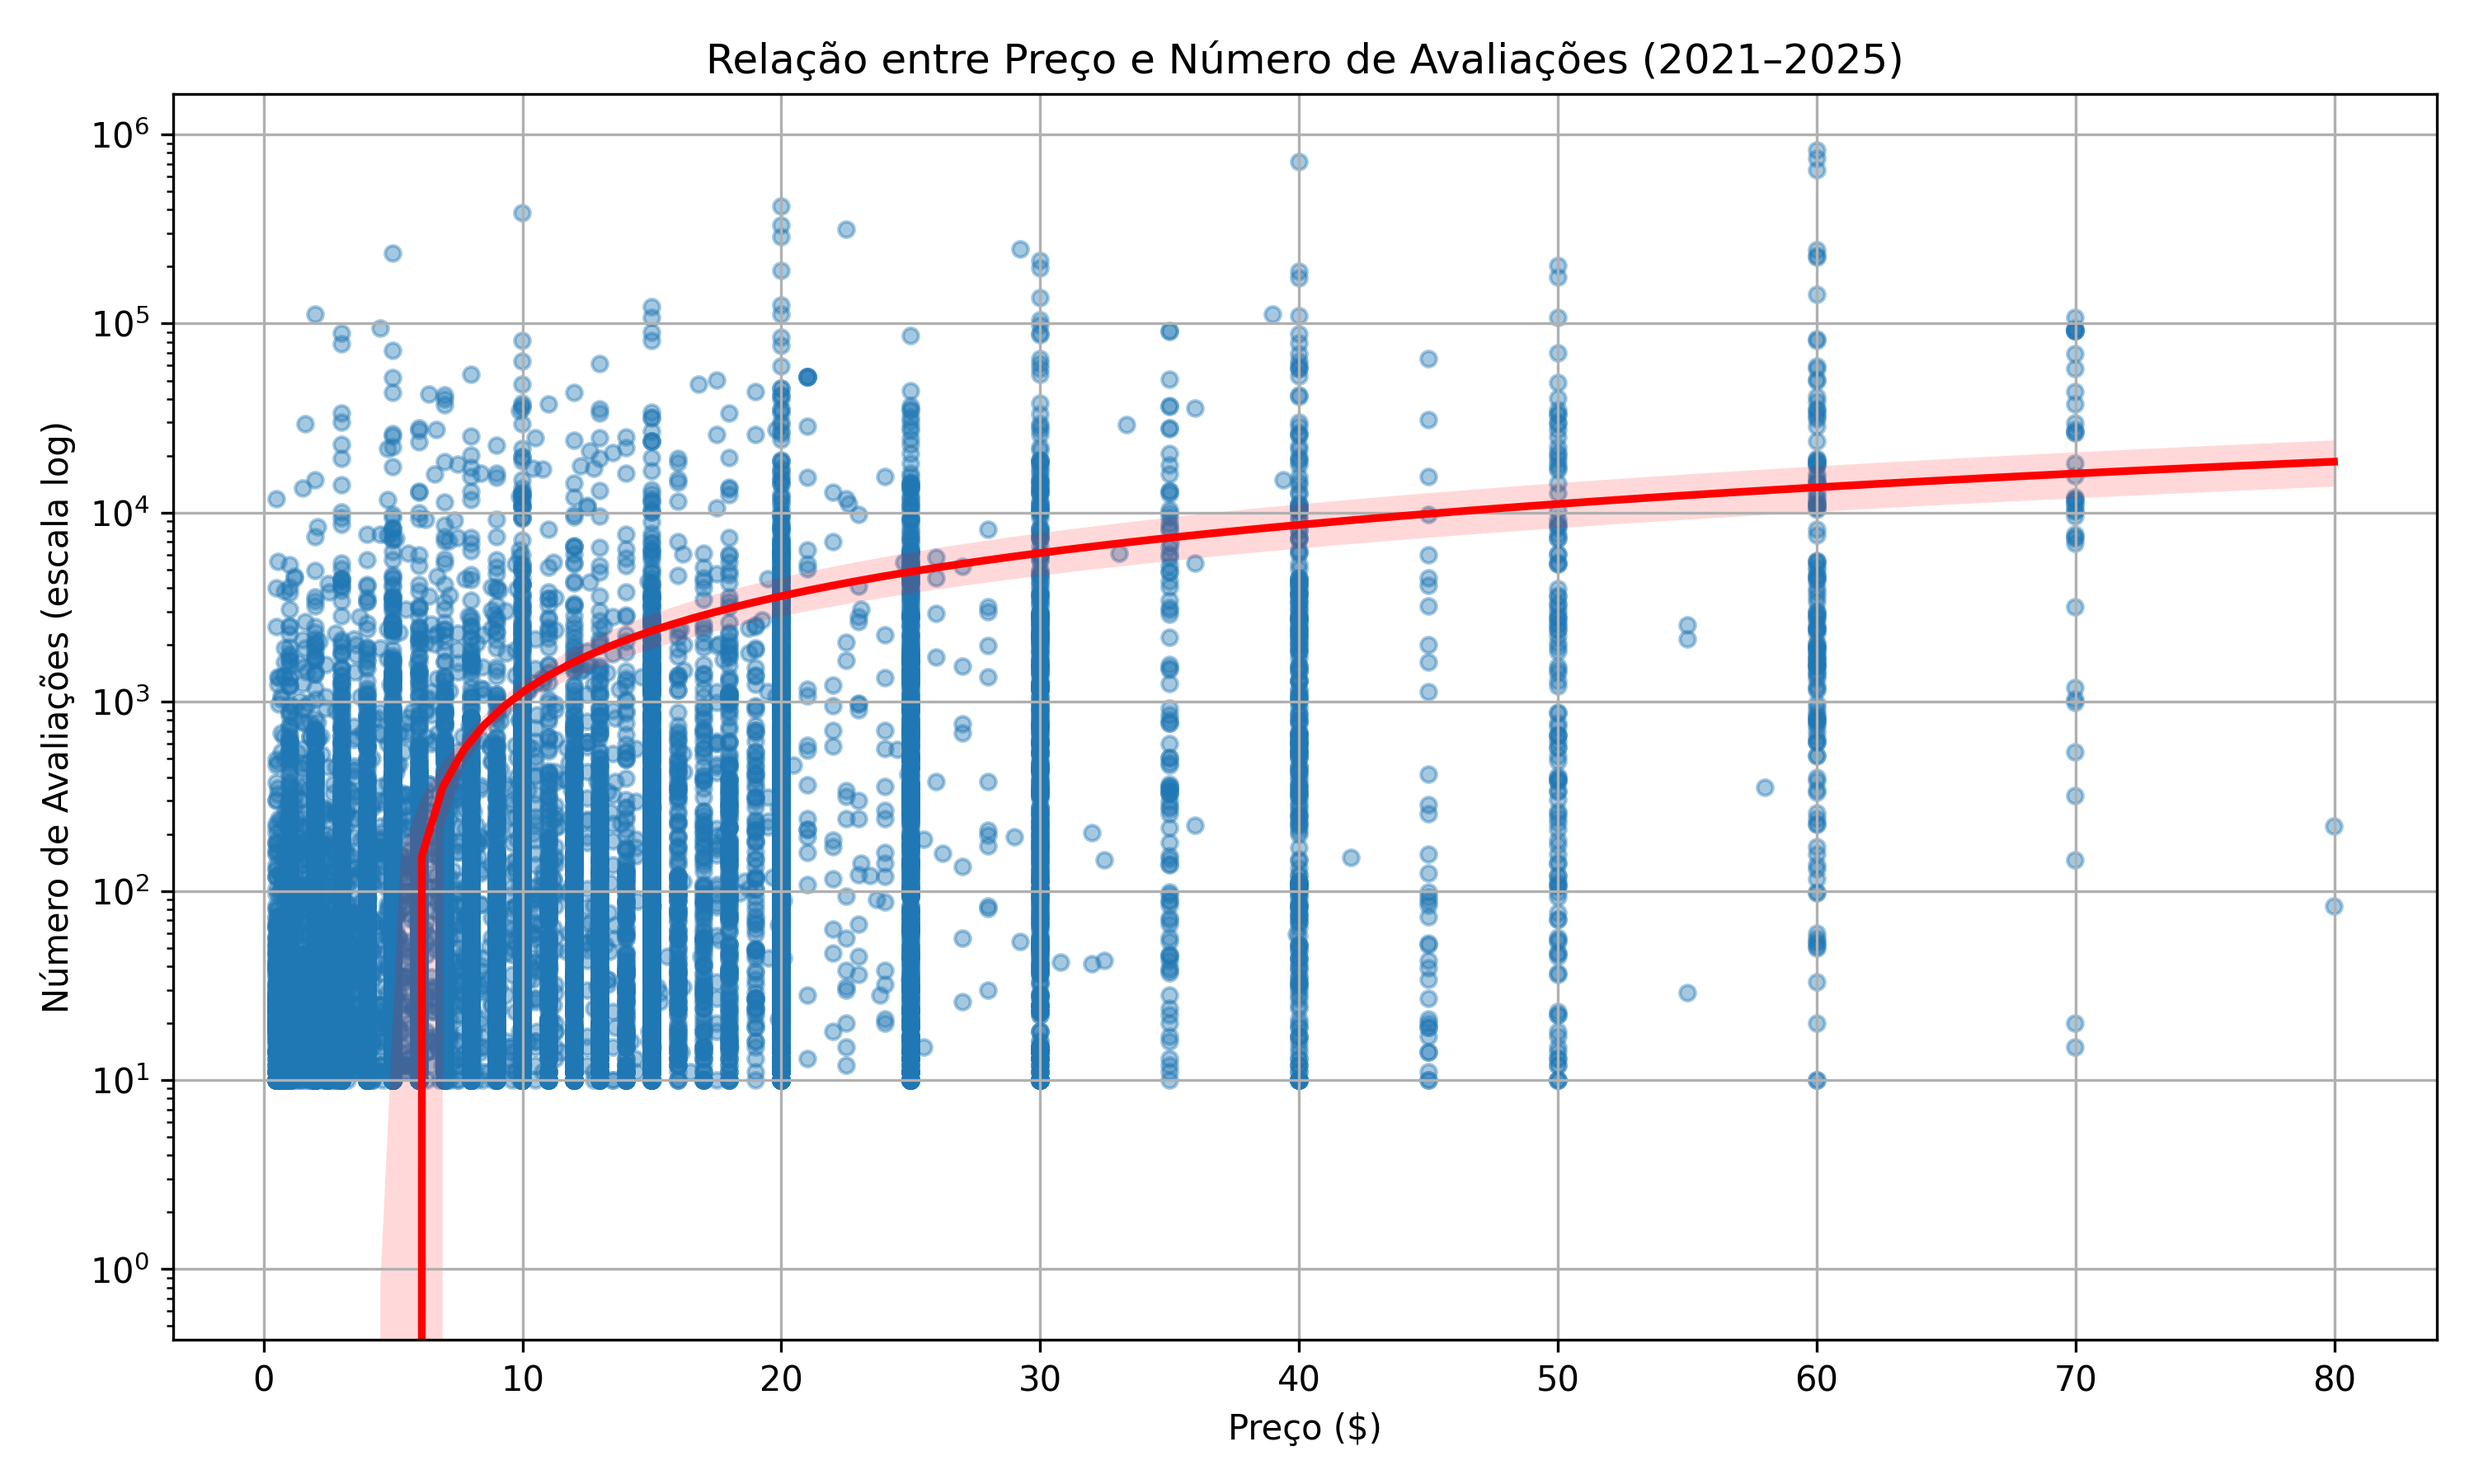
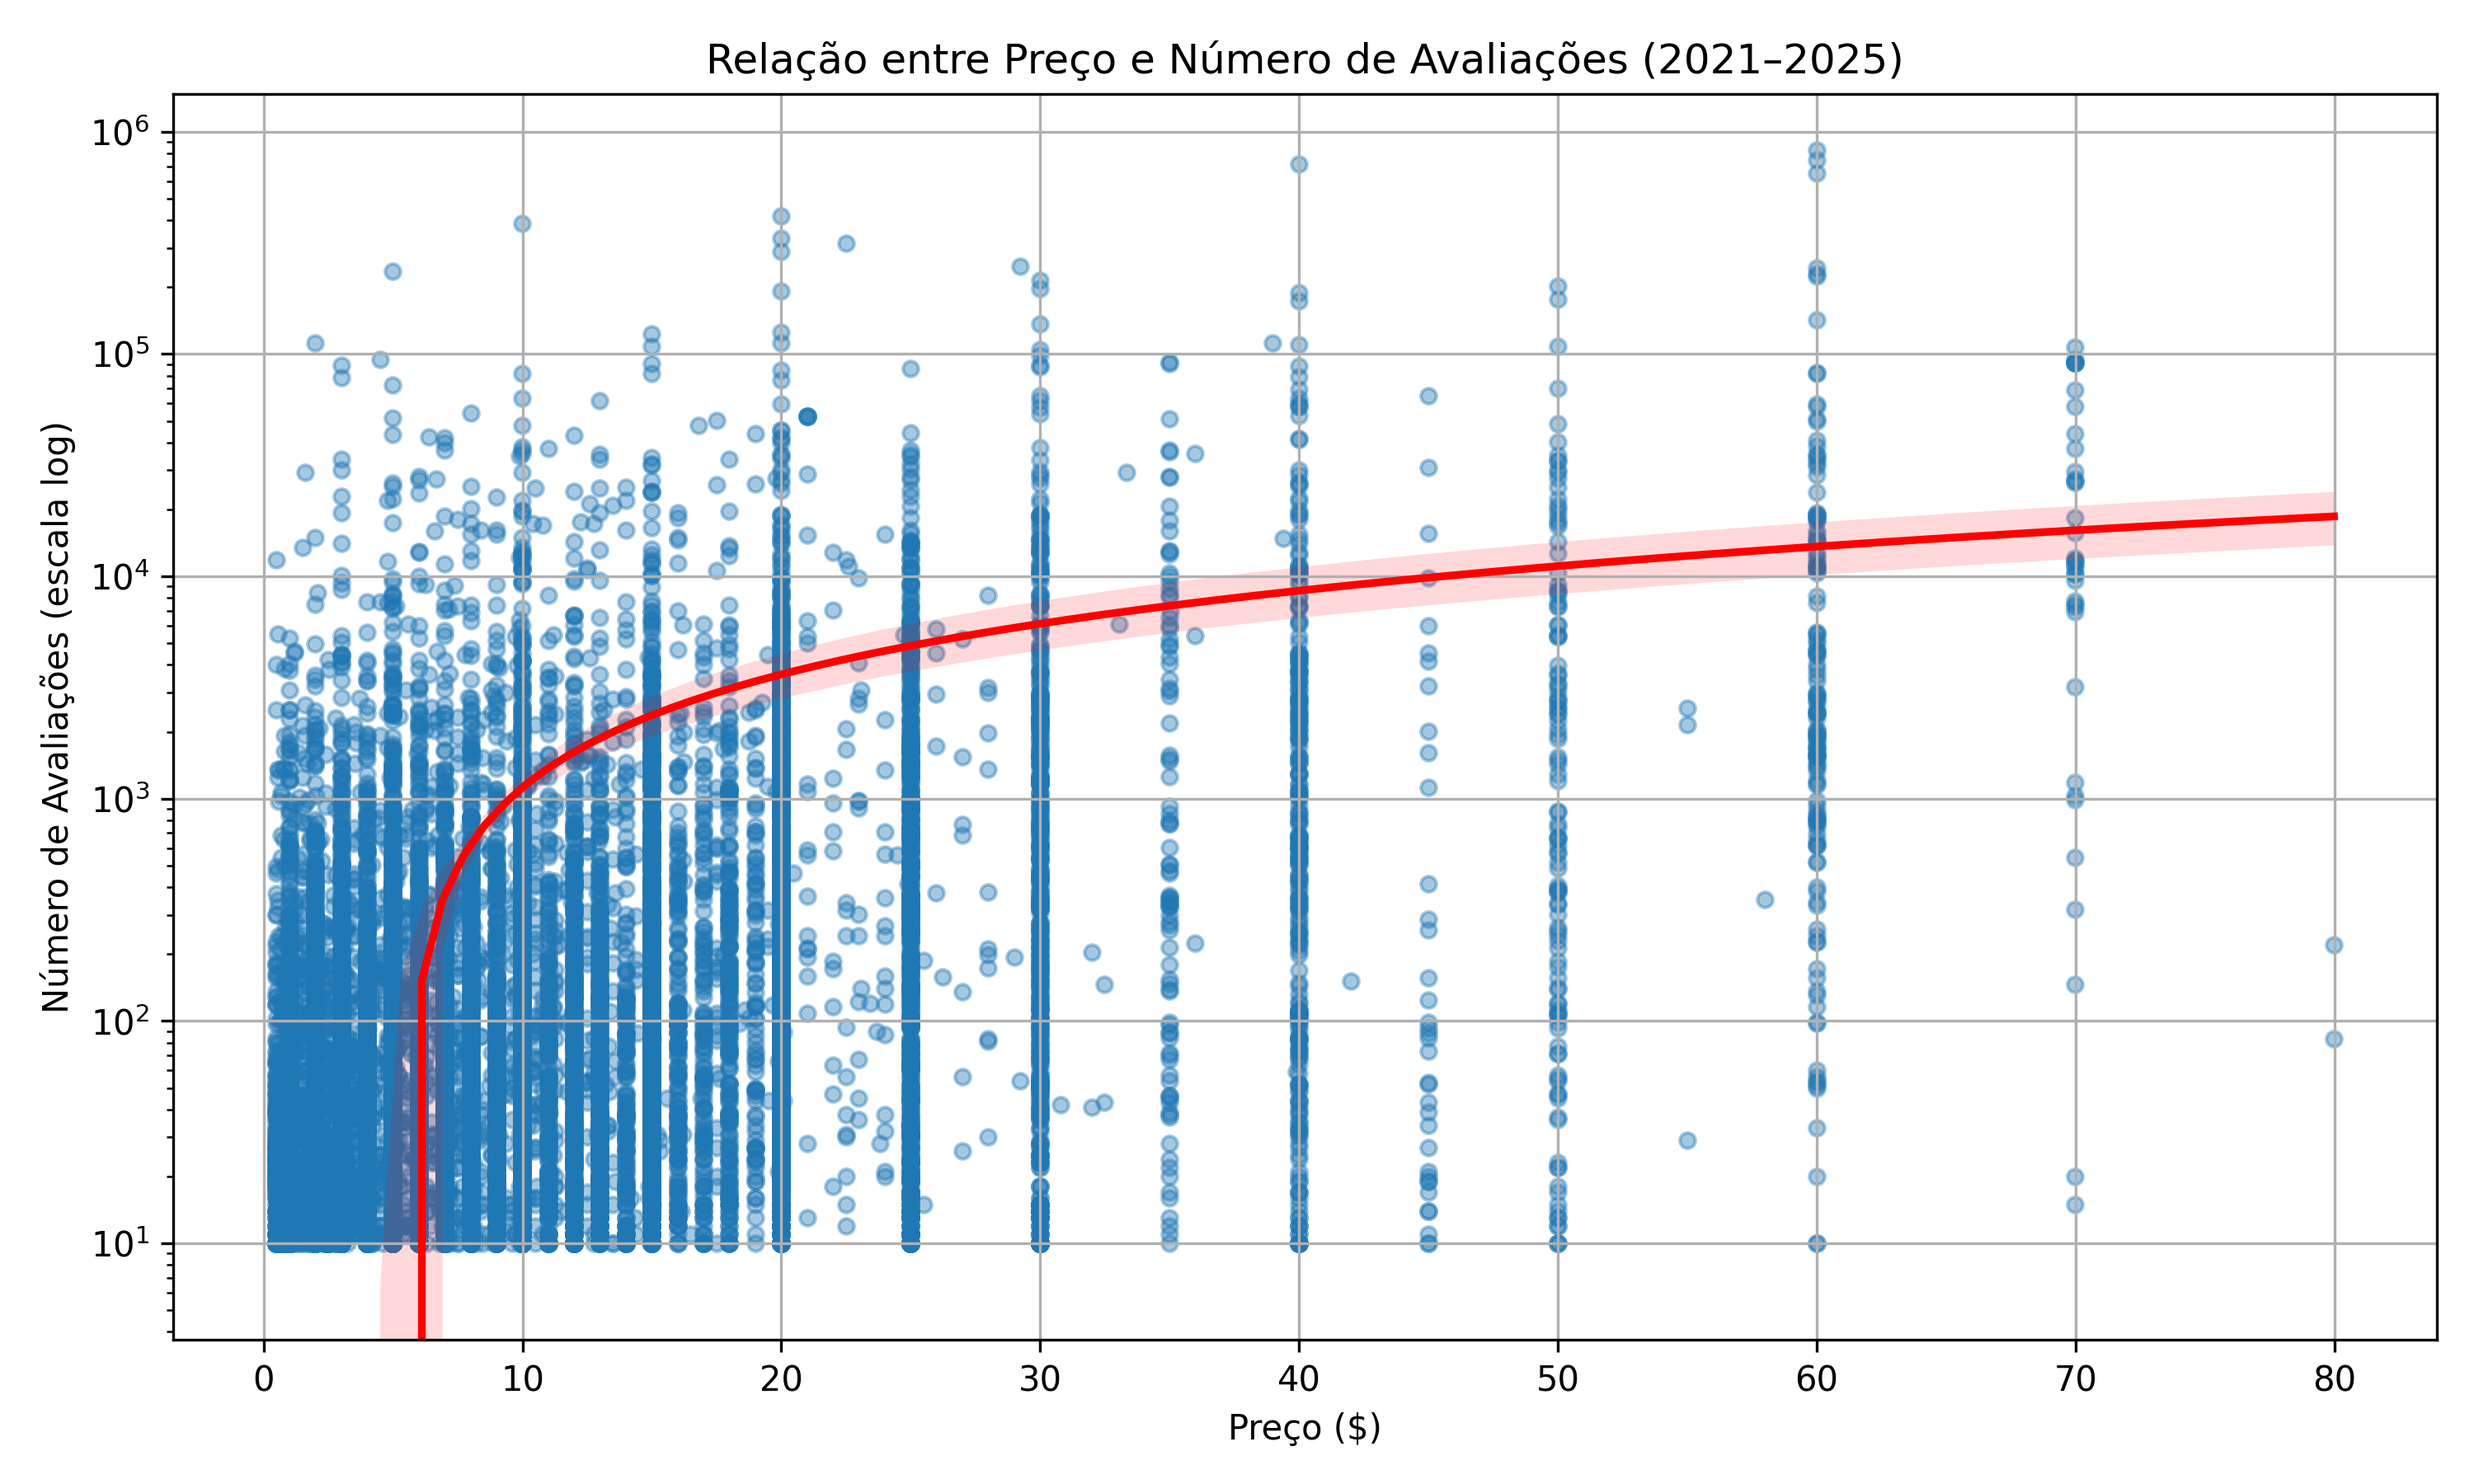
Fix: Correção dos gráficos

diff --git a/app.py b/app.py
@@ -3,51 +3,41 @@ import pandas as pd
 import matplotlib.pyplot as plt
 import seaborn as sns
 import numpy as np
-from scipy.stats import pearsonr
 import os
+from scipy.stats import pearsonr
 
-# Configurações iniciais da página
 st.set_page_config(page_title="Steam Games Analysis", layout="wide")
-
-# Título principal
 st.title("🎮 Steam Games Analysis (2021-2025)")
 st.markdown("---")
 
-# Carregar os dados
 @st.cache_data
 def load_data():
     parquet_path = 'dataset/games_march2025_clean.parquet'
-
     if not os.path.exists(parquet_path):
         st.error(f"Arquivo {parquet_path} não encontrado no repositório.")
         st.stop()
-
     df = pd.read_parquet(parquet_path)
     df['release_date'] = pd.to_datetime(df['release_date'], errors='coerce')
     df['year'] = df['release_date'].dt.year
     df['month'] = df['release_date'].dt.month
-    df['semester'] = df['year'].astype(str) + ' S' + df['release_date'].dt.month.apply(lambda x: '1' if x <= 6 else '2')
+    df['semester'] = df['release_date'].dt.year.astype(str) + ' S' + df['release_date'].dt.month.apply(lambda x: '1' if x <= 6 else '2')
     return df
 
 df = load_data()
 
 # Menu lateral
-menu = st.sidebar.selectbox(
-    "Escolha a Análise",
-    [
-        "Top 10 Jogos Mais Avaliados",
-        "Distribuição dos Preços",
-        "Top 10 Gêneros",
-        "Evolução dos Lançamentos",
-        "Novos Questionamentos"
-    ]
-)
+menu = st.sidebar.selectbox("Escolha a Análise", [
+    "Top 10 Jogos Mais Avaliados",
+    "Distribuição dos Preços",
+    "Top 10 Gêneros",
+    "Evolução dos Lançamentos",
+    "Novos Questionamentos"
+])
 
 # 1. Top 10 Jogos Mais Avaliados
 if menu == "Top 10 Jogos Mais Avaliados":
     st.header("📊 Top 10 Jogos Mais Avaliados")
     top10 = df.sort_values(by='num_reviews_total', ascending=False).head(10)
-
     fig, ax = plt.subplots(figsize=(10,6))
     ax.barh(top10['name'], top10['num_reviews_total'])
     ax.invert_yaxis()
@@ -59,7 +49,6 @@ if menu == "Top 10 Jogos Mais Avaliados":
 elif menu == "Distribuição dos Preços":
     st.header("💵 Distribuição dos Preços dos Jogos Pagos")
     max_price = st.slider("Selecione o Preço Máximo:", 0, 100, 50)
-
     df_paid = df[df['price'] > 0]
     fig, ax = plt.subplots(figsize=(10,6))
     ax.hist(df_paid[df_paid['price'] <= max_price]['price'], bins=30, color='#90caf9', edgecolor='black')
@@ -73,11 +62,12 @@ elif menu == "Top 10 Gêneros":
     st.header("🏷 Top 10 Gêneros Mais Frequentes")
     df['genres_clean'] = df['genres'].str.replace(r"[\[\]']", "", regex=True)
     df['primary_genre'] = df['genres_clean'].str.split(',').str[0]
-    top_genres = df['primary_genre'].value_counts().head(10)
-
+    df_genres = df[df['primary_genre'].str.strip() != '']
+    top_genres = df_genres['primary_genre'].value_counts().head(10)
     fig, ax = plt.subplots(figsize=(10,6))
     top_genres.plot(kind='bar', color='#a5d6a7', edgecolor='black', ax=ax)
     ax.set_ylabel("Quantidade de Jogos")
+    ax.set_xlabel("Gênero Principal")
     ax.set_title("Top 10 Gêneros (2021-2025)")
     st.pyplot(fig)
 
@@ -85,7 +75,6 @@ elif menu == "Top 10 Gêneros":
 elif menu == "Evolução dos Lançamentos":
     st.header("📈 Evolução dos Lançamentos de Jogos por Semestre")
     launches_per_semester = df['semester'].value_counts().sort_index()
-
     fig, ax = plt.subplots(figsize=(12,6))
     ax.plot(launches_per_semester.index, launches_per_semester.values, marker='o', color='#ab47bc')
     ax.set_xlabel("Semestre")
@@ -99,52 +88,49 @@ elif menu == "Evolução dos Lançamentos":
 # 5. Novos Questionamentos
 elif menu == "Novos Questionamentos":
     st.header("🔎 Novos Questionamentos e Análises")
-    tab1, tab2, tab3 = st.tabs([
-        "1. Preço x Avaliações",
-        "2. Gêneros + Avaliações",
-        "3. Sazonalidade"
-    ])
+    tabs = st.tabs(["Preço x Avaliações", "Gêneros + Avaliações", "Sazonalidade"])
 
-    with tab1:
+    with tabs[0]:
         st.subheader("1. Correlação entre Preço e Número de Avaliações")
-        df_corr = df[df['price'] > 0][['price', 'num_reviews_total']].dropna()
-        corr, _ = pearsonr(df_corr['price'], df_corr['num_reviews_total'])
+        filtered = df[(df['price'] <= 80) & (df['price'] > 0) & (df['num_reviews_total'] > 0)]
+        corr, _ = pearsonr(filtered['price'], filtered['num_reviews_total'])
         st.markdown(f"**Correlação de Pearson:** {corr:.2f}")
-
         fig, ax = plt.subplots(figsize=(10,6))
-        sns.regplot(data=df_corr, x='price', y='num_reviews_total', scatter_kws={'alpha':0.3}, line_kws={'color':'red'}, ax=ax)
+        sns.regplot(data=filtered, x='price', y='num_reviews_total', scatter_kws={'alpha':0.3}, line_kws={'color':'red'}, ax=ax)
         ax.set_yscale('log')
         ax.set_xlabel("Preço ($)")
         ax.set_ylabel("Número de Avaliações (escala log)")
         ax.set_title("Relação entre Preço e Número de Avaliações (2021–2025)")
         st.pyplot(fig)
 
-    with tab2:
+    with tabs[1]:
         st.subheader("2. Gêneros com Melhores Avaliações Positivas")
-        df_genres = df.dropna(subset=['genres'])
-        df_genres['genres_clean'] = df_genres['genres'].str.replace(r"[\[\]']", "", regex=True)
-        df_genres['genres_list'] = df_genres['genres_clean'].str.split(',')
-        exploded = df_genres.explode('genres_list')
-        exploded = exploded[exploded['num_reviews_total'] > 0]
-        exploded['positive_ratio'] = exploded['num_reviews_positive'] / exploded['num_reviews_total']
-        genre_scores = exploded.groupby('genres_list')['positive_ratio'].mean().sort_values(ascending=False).head(10)
+        df['genres_clean'] = df['genres'].str.replace(r"[\[\]']", "", regex=True)
+        df['genres_list'] = df['genres_clean'].str.split(',')
+        exploded = df.explode('genres_list')
+        exploded = exploded[exploded['genres_list'].notna() & (exploded['genres_list'].str.strip() != '')]
 
+        # Corrigir nomes de colunas conforme o dataset real
+        if 'num_reviews_positive' in exploded.columns and 'num_reviews_total' in exploded.columns:
+            exploded['positive_ratio'] = exploded['num_reviews_positive'] / exploded['num_reviews_total']
+            genre_avg = exploded.groupby('genres_list')['positive_ratio'].mean().sort_values(ascending=False).head(10)
+            fig, ax = plt.subplots(figsize=(10,6))
+            genre_avg.sort_values().plot(kind='barh', color='#81c784', edgecolor='black', ax=ax)
+            ax.set_xlabel("% de Avaliações Positivas")
+            ax.set_ylabel("Gênero")
+            ax.set_title("Top 10 Gêneros com Melhores Avaliações Positivas (2021–2025)\n(considerando todos os gêneros de cada jogo)")
+            st.pyplot(fig)
+        else:
+            st.error("Colunas 'num_reviews_positive' ou 'num_reviews_total' não encontradas no dataset.")
+
+    with tabs[2]:
+        st.subheader("3. Lançamentos por Mês (2021–2024)")
+        filtered = df[df['year'] < 2025]
+        launches_by_month = filtered['month'].value_counts().sort_index()
+        months = ['Jan', 'Fev', 'Mar', 'Abr', 'Mai', 'Jun', 'Jul', 'Ago', 'Set', 'Out', 'Nov', 'Dez']
         fig, ax = plt.subplots(figsize=(10,6))
-        genre_scores.plot(kind='barh', color='lightgreen', ax=ax)
-        ax.invert_yaxis()
-        ax.set_xlabel("% de Avaliações Positivas")
-        ax.set_ylabel("Gênero")
-        ax.set_title("Top 10 Gêneros com Melhores Avaliações Positivas (2021–2025)\n(considerando todos os gêneros de cada jogo)")
-        st.pyplot(fig)
-
-    with tab3:
-        st.subheader("3. Sazonalidade dos Lançamentos")
-        monthly = df[df['year'] < 2025]['release_date'].dt.month.value_counts().sort_index()
-        month_labels = ['Jan', 'Fev', 'Mar', 'Abr', 'Mai', 'Jun', 'Jul', 'Ago', 'Set', 'Out', 'Nov', 'Dez']
-
-        fig, ax = plt.subplots(figsize=(10,6))
-        ax.bar(month_labels, monthly)
-        ax.set_title("Lançamentos de Jogos por Mês (2021–2024)")
+        ax.bar(months, launches_by_month)
         ax.set_xlabel("Mês")
         ax.set_ylabel("Quantidade de Jogos Lançados")
+        ax.set_title("Lançamentos de Jogos por Mês (2021–2024)")
         st.pyplot(fig)
